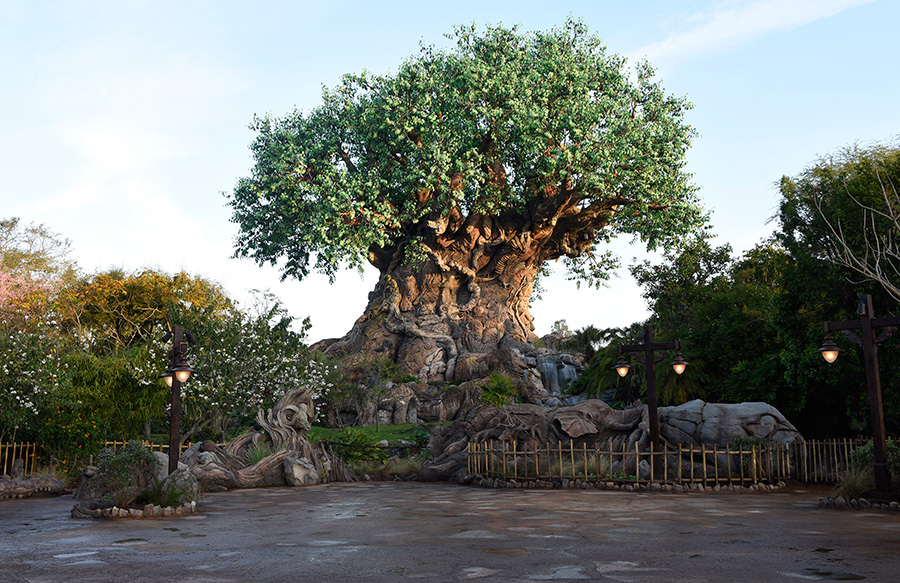
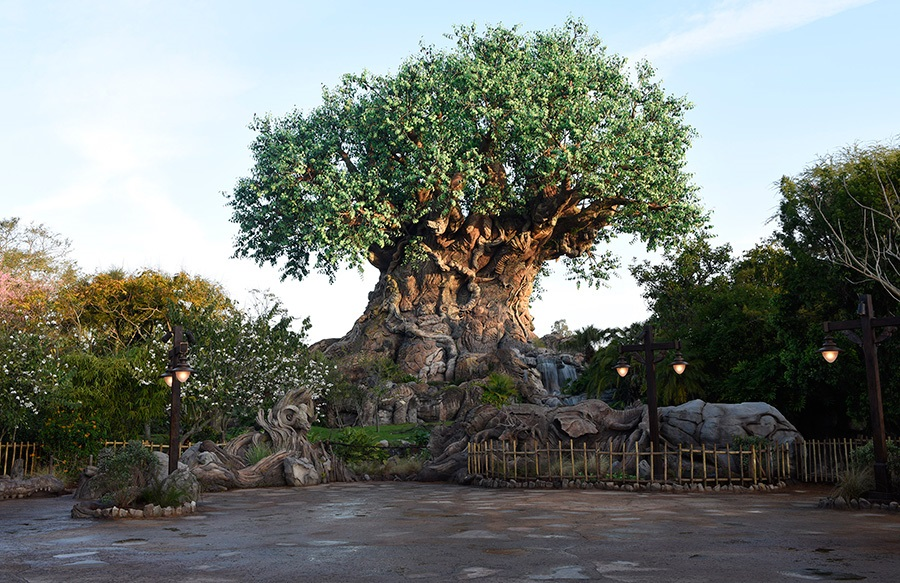
editing pictures so they are a consistant size

diff --git a/index.html b/index.html
@@ -40,39 +40,47 @@
     <!--end top navigation-->
 
     <main>
-        <header>
-            <h1>Enjoy The Ride</h1>
-        </header>
         <!--Carousel of main park icons-->
-        <div id="carouselExampleIndicators" class="carousel slide" data-ride="carousel">
-            <ol class="carousel-indicators">
-                <li data-target="#carouselExampleIndicators" data-slide-to="0" class="active"></li>
-                <li data-target="#carouselExampleIndicators" data-slide-to="1"></li>
-                <li data-target="#carouselExampleIndicators" data-slide-to="2"></li>
-                <li data-target="#carouselExampleIndicators" data-slide-to="3"></li>
-            </ol>
-            <div class="carousel-inner">
-                <div class="carousel-item active">
-                <img src="img/cinderella-castle.jpg" class="d-block w-100" alt="Cinderella Castle at Magic Kingdom">
-                </div>
-                <div class="carousel-item">
-                <img src="img/spaceship-earth.jpg" class="d-block w-100" alt="Spaceship Earth at Epcot">
-                </div>
-                <div class="carousel-item">
-                <img src="img/tower-of-terror.jpg" class="d-block w-100" alt="Tower of Terror at Hollywood Studios">
-                </div>
-                <div class="carousel-item">
-                    <img src="img/tree-of-life.jpg" class="d-block w-100" alt="Tree of Life at Animal Kingdom">
+        <div class="jumbotron jumbotron-fluid">
+            <div class="container col-md-6 offset-md-3">
+                <header>
+                    <h1>Enjoy The Ride</h1>
+                </header>
+                <div id="carouselExampleIndicators" class="carousel slide" data-ride="carousel">
+                    <ol class="carousel-indicators">
+                        <li data-target="#carouselExampleIndicators" data-slide-to="0" class="active"></li>
+                        <li data-target="#carouselExampleIndicators" data-slide-to="1"></li>
+                        <li data-target="#carouselExampleIndicators" data-slide-to="2"></li>
+                        <li data-target="#carouselExampleIndicators" data-slide-to="3"></li>
+                    </ol>
+                    <div class="carousel-inner">
+                        <div class="carousel-item active">
+                            <img src="img/cinderella-castle-sm.jpg" class="d-block w-100"
+                                alt="Cinderella Castle at Magic Kingdom">
+                        </div>
+                        <div class="carousel-item">
+                            <img src="img/spaceship-earth-sm-350.jpg" class="d-block w-100"
+                                alt="Spaceship Earth at Epcot">
+                        </div>
+                        <div class="carousel-item">
+                            <img src="img/tower-of-terror-sm.jpg" class="d-block w-100"
+                                alt="Tower of Terror at Hollywood Studios">
+                        </div>
+                        <div class="carousel-item">
+                            <img src="img/tree-of-life-sm.jpg" class="d-block w-100"
+                                alt="Tree of Life at Animal Kingdom">
+                        </div>
                     </div>
+                    <a class="carousel-control-prev" href="#carouselExampleIndicators" role="button" data-slide="prev">
+                        <span class="carousel-control-prev-icon" aria-hidden="true"></span>
+                        <span class="sr-only">Previous</span>
+                    </a>
+                    <a class="carousel-control-next" href="#carouselExampleIndicators" role="button" data-slide="next">
+                        <span class="carousel-control-next-icon" aria-hidden="true"></span>
+                        <span class="sr-only">Next</span>
+                    </a>
+                </div>
             </div>
-            <a class="carousel-control-prev" href="#carouselExampleIndicators" role="button" data-slide="prev">
-                <span class="carousel-control-prev-icon" aria-hidden="true"></span>
-                <span class="sr-only">Previous</span>
-            </a>
-            <a class="carousel-control-next" href="#carouselExampleIndicators" role="button" data-slide="next">
-                <span class="carousel-control-next-icon" aria-hidden="true"></span>
-                <span class="sr-only">Next</span>
-            </a>
         </div>
         <!--end arousel of main park icons-->
         <hr>
@@ -80,33 +88,38 @@
         <!--media objects with article links-->
         <article>
             <div class="media">
-                <img src="img/everest.jpg" class="align-self-start mr-3" alt="Expedition Everest">
+                <img src="img/everest-sm.jpg" class="align-self-start mr-3" alt="Expedition Everest">
                 <div class="media-body">
                     <h2 class="mt-0">See Your Ratings</h2>
                     <p>Click here to sign in, see your ratings, or add more.</p>
-                    <p class="mb-0"><a role="button" class="btn btn-outline-secondary btn-sm" href="login.html">Log In Now</a></p>
+                    <p class="mb-0"><a role="button" class="btn btn-outline-secondary btn-sm" href="login.html">Log In
+                            Now</a></p>
                 </div>
             </div>
         </article>
         <hr>
         <article>
             <div class="media">
-                <img src="img/jungle-cruise.jpg" class="align-self-start mr-3" alt="Expedition Everest">
+                <img src="img/jungle-cruise-sm.jpg" class="align-self-start mr-3" alt="Expedition Everest">
                 <div class="media-body">
                     <h2 class="mt-0">See Public Lists</h2>
-                    <p>Want to know if other people love Jungle Cruise as much as you? Have a burning dislike for the Enchanted Tiki Room?</p>
-                    <p class="mb-0"><a role="button" class="btn btn-outline-secondary btn-sm" href="#">Find Out Here</a></p>
+                    <p>Want to know if other people love Jungle Cruise as much as you? Have a burning dislike for the
+                        Enchanted Tiki Room?</p>
+                    <p class="mb-0"><a role="button" class="btn btn-outline-secondary btn-sm" href="#">Find Out Here</a>
+                    </p>
                 </div>
             </div>
         </article>
         <hr>
         <article>
             <div class="media">
-                <img src="img/big-thunder-mountain.jpg" class="align-self-start mr-3" alt="Expedition Everest">
+                <img src="img/big-thunder-mountain-sm.jpg" class="align-self-start mr-3" alt="Expedition Everest">
                 <div class="media-body">
                     <h2 class="mt-0">See All User's Top Rated Rides</h2>
-                    <p>Coming soon! See all of our user's top rated rides. Keep rating to see your favorite move to the top!</p>
-                    <p class="mb-0"><a role="button" class="btn btn-outline-secondary btn-sm disabled" href="#" tabindex="-1" aria-disabled="true">Find Out Here</a></p>
+                    <p>Coming soon! See all of our user's top rated rides. Keep rating to see your favorite move to the
+                        top!</p>
+                    <p class="mb-0"><a role="button" class="btn btn-outline-secondary btn-sm disabled" href="#"
+                            tabindex="-1" aria-disabled="true">Coming Soon</a></p>
                 </div>
             </div>
         </article>
@@ -115,7 +128,8 @@
         <hr>
         <!--footer-->
         <footer>
-            <p>&copy;Michelle Harrop 2019. Content provided by <a href="https://disneyworld.disney.go.com/" target="_blank">Walt Disney World</a></p>
+            <p>&copy;Michelle Harrop 2019. Content provided by <a href="https://disneyworld.disney.go.com/"
+                    target="_blank">Walt Disney World</a></p>
         </footer>
 
     </main>

diff --git a/login.html b/login.html
@@ -53,7 +53,7 @@
         <div class="jumbotron jumbotron-fluid">
             <div class="container col-md-6 offset-md-3">
                 <header>
-                    <h1>Enjoy The Ride</h1>
+                    <h1>Log In</h1>
                 </header>
                 <div id="carouselExampleIndicators" class="carousel slide" data-ride="carousel">
                     <ol class="carousel-indicators">
@@ -64,16 +64,16 @@
                     </ol>
                     <div class="carousel-inner">
                         <div class="carousel-item active">
-                            <img src="img/mk-entrance.jpg" class="d-block w-100" alt="Magic Kingdom Entrance">
+                            <img src="img/mk-entrance-better.jpg" class="d-block w-100" alt="Magic Kingdom Entrance">
                         </div>
                         <div class="carousel-item">
-                            <img src="img/new-epcot-entrance-sm.jpg" class="d-block w-100" alt="New Epcot Entrance">
+                            <img src="img/epcot-entrance-better.jpg" class="d-block w-100" alt="New Epcot Entrance">
                         </div>
                         <div class="carousel-item">
-                            <img src="img/hs-entrance-sm.jpg" class="d-block w-100" alt="Hollywood Studios Enterance">
+                            <img src="img/hs-entrance-better.jpg" class="d-block w-100" alt="Hollywood Studios Enterance">
                         </div>
                         <div class="carousel-item">
-                            <img src="img/ak-entrance-sm.jpg" class="d-block w-100" alt="Animal Kingdom Entrance">
+                            <img src="img/ak-entrance-better.jpg" class="d-block w-100" alt="Animal Kingdom Entrance">
                         </div>
                     </div>
                     <a class="carousel-control-prev" href="#carouselExampleIndicators" role="button" data-slide="prev">

diff --git a/register.html b/register.html
@@ -53,7 +53,7 @@
         <div class="jumbotron jumbotron-fluid">
             <div class="container col-md-6 offset-md-3">
                 <header>
-                    <h1>Enjoy The Ride</h1>
+                    <h1>Sign Up</h1>
                 </header>
                 <div id="carouselExampleIndicators" class="carousel slide" data-ride="carousel">
                     <ol class="carousel-indicators">
